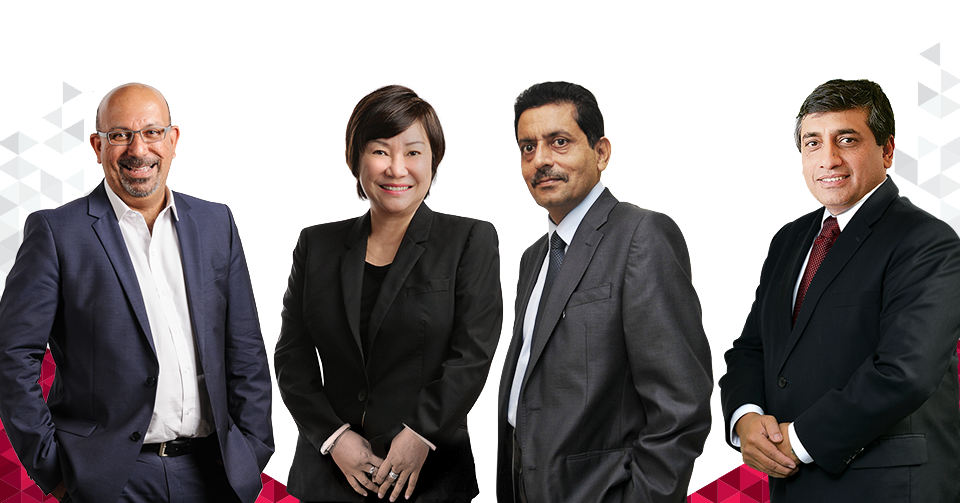
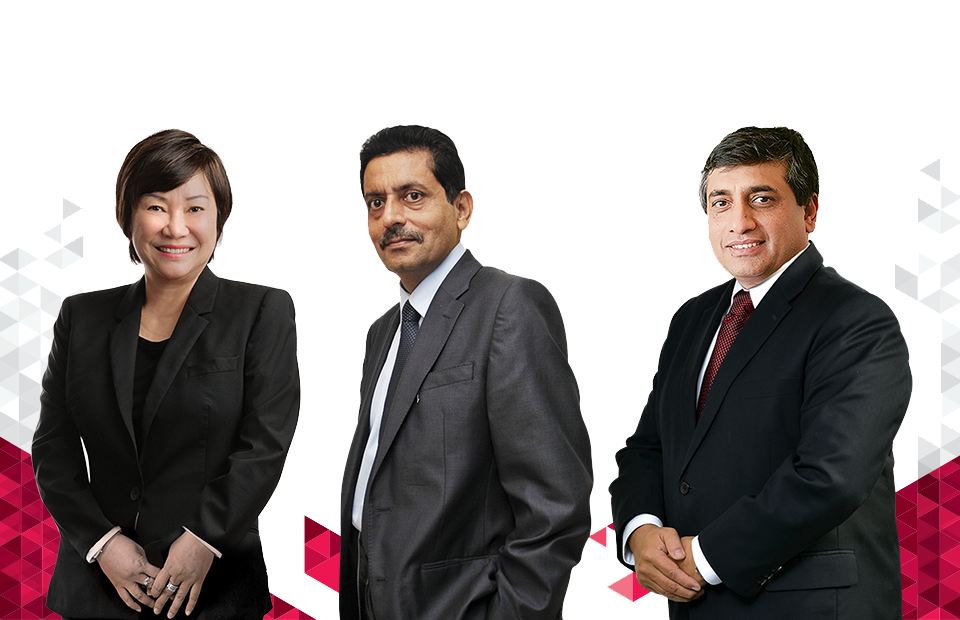
creating new management profile

diff --git a/ar/corporate profile/axiata'14_03_operating team.html b/ar/corporate profile/axiata'14_03_operating team.html
@@ -96,7 +96,7 @@
 				<img class="plusButton" id="plusButton1" src="../assets/img/chapter4/section2/plus.png" data-url="../board/21.html" />
 				<img class="plusButton" id="plusButton2" src="../assets/img/chapter4/section2/plus.png" data-url="../board/22.html" />
 				<img class="plusButton" id="plusButton3" src="../assets/img/chapter4/section2/plus.png" data-url="../board/23.html" />
-				<h1 class="header1">Profile of Operating Companies’</h1>
+				<h1 class="header1">Operating Companies’</h1>
 				<h1 class="header2">Management Team</h1>
 				<div class="name1">
 					<p class="text"> 
@@ -132,7 +132,6 @@
 			<div class="section7">
 				<img class="plusButton" id="plusButton1" src="../assets/img/chapter4/section2/plus.png" data-url="../board/24.html" />
 				<img class="plusButton" id="plusButton2" src="../assets/img/chapter4/section2/plus.png" data-url="../board/25.html" />
-				<img class="plusButton" id="plusButton3" src="../assets/img/chapter4/section2/plus.png" data-url="../board/27.html" />
 				<h1 class="header1">Profile of</h1>
 				<h1 class="header2">Management Team</h1>
 				<div class="name1">
@@ -151,7 +150,14 @@
 						<span class="purple">Smart Axiata Co. Ltd.</span>
 					</p>
 				</div>
-				<div class="name3">
+				
+			</div>
+			
+			<div class="section8_1">
+				<img class="plusButton" id="plusButton1" src="../assets/img/chapter4/section2/plus.png" data-url="../board/27.html" />
+				<img class="plusButton" id="plusButton2" src="../assets/img/chapter4/section2/plus.png" data-url="../board/28.html" />
+				
+				<div class="name1">
 					<p class="text"> 
 						<img class="arr" src="../assets/img/chapter4/board/arrow.png" />
 						<span class="purple">Mohd Khairil Abdullah</span> <br/>
@@ -159,16 +165,7 @@
 						<span class="purple">Axiata Digital Services Sdn Bhd</span>
 					</p>
 				</div>
-			</div>
-			
-			<div class="section8">
-				<img class="plusButton" id="plusButton1" src="../assets/img/chapter4/section2/plus.png" data-url="../board/28.html" />
-				<img class="plusButton" id="plusButton2" src="../assets/img/chapter4/section2/plus.png" data-url="../board/26.html" />
-				<img class="plusButton" id="plusButton3" src="../assets/img/chapter4/section2/plus.png" data-url="../board/29.html" />
-				<img class="plusButton" id="plusButton4" src="../assets/img/chapter4/section2/plus.png" data-url="../board/30.html" />
-				<h1 class="header1">Profile of</h1>
-				<h1 class="header2">Management Team</h1>
-				<div class="name1">
+				<div class="name2">
 					<p class="text"> 
 						<img class="arr" src="../assets/img/chapter4/board/arrow.png" />
 						<span class="purple">Suresh Sidhu</span> <br/>
@@ -176,7 +173,18 @@
 						<span class="purple">edotco Group Sdn Bhd</span>
 					</p>
 				</div>
-				<div class="name2">
+				
+			</div>
+
+
+			<div class="section8">
+				<img class="plusButton" id="plusButton1" src="../assets/img/chapter4/section2/plus.png" data-url="../board/26.html" />
+				<img class="plusButton" id="plusButton2" src="../assets/img/chapter4/section2/plus.png" data-url="../board/29.html" />
+				<img class="plusButton" id="plusButton3" src="../assets/img/chapter4/section2/plus.png" data-url="../board/30.html" />
+				<h1 class="header1">Profile of</h1>
+				<h1 class="header2">Management Team</h1>
+				
+				<div class="name1">
 					<p class="text"> 
 						<img class="arr" src="../assets/img/chapter4/board/arrow.png" />
 						<span class="purple">Karen Kooi</span> <br/>
@@ -184,7 +192,7 @@
 						<span class="purple">M1 Limited</span>
 					</p>
 				</div>
-				<div class="name3">
+				<div class="name2">
 					<p class="text"> 
 						<img class="arr" src="../assets/img/chapter4/board/arrow.png" />
 						<span class="purple">Himanshu Kapania</span> <br/>
@@ -192,7 +200,7 @@
 						<span class="purple">Idea Cellular Limited</span>
 					</p>
 				</div>
-				<div class="name4">
+				<div class="name3">
 					<p class="text"> 
 						<img class="arr" src="../assets/img/chapter4/board/arrow.png" />
 						<span class="purple">Adnan Asdar</span> <br/>
@@ -200,6 +208,7 @@
 						<span class="purple">Multinet Pakistan (Private) Limited</span>
 					</p>
 				</div>
+				
 			</div>
 			
 		</div>
@@ -328,6 +337,14 @@
 				.addTo(controller);
 		}
 		
+		new ScrollMagic.Scene({
+					triggerElement: '.section8_1',
+					triggerHook: 'onLeave',
+					offset: -90,
+					duration:770
+				})
+				.setPin('.section8_1',{pushFollowers: false})
+				.addTo(controller);
 		//slide(1);
 		//alert(currentDivId);
 		

diff --git a/ar/assets/css/chapter4.css b/ar/assets/css/chapter4.css
@@ -674,12 +674,12 @@
 
 .section7 #plusButton1
 {
-	margin: 440px 0 0 230px;
+	margin: 440px 0 0 370px;
 }
 
 .section7 #plusButton2
 {
-	margin: 440px 0 0 560px;
+	margin: 440px 0 0 730px;
 }
 
 .section7 #plusButton3
@@ -713,7 +713,7 @@
 	font-size:13.5px;
 	font-family:axiataBook;
 	width:270px;
-	margin:-90px 0 0 90px;
+	margin:-30px 0 0 210px;
 	color:#4d4d4f;
 }
 .section7 .name2
@@ -721,7 +721,7 @@
 	font-size:13.5px;
 	font-family:axiataBook;
 	width:245px;
-	margin:-92px 0 0 410px;
+	margin:-92px 0 0 580px;
 	color:#4d4d4f;
 }
 
@@ -769,17 +769,17 @@
 
 .section8 #plusButton1
 {
-	margin: 450px 0 0 200px;
+	margin: 400px 0 0 270px;
 }
 
 .section8 #plusButton2
 {
-	margin: 450px 0 0 460px;
+	margin: 400px 0 0 520px;
 }
 
 .section8 #plusButton3
 {
-	margin: 450px 0 0 650px;
+	margin: 400px 0 0 850px;
 }
 
 .section8 #plusButton4
@@ -812,16 +812,16 @@
 {
 	font-size:13.5px;
 	font-family:axiataBook;
-	width:150px;
-	margin:-30px 0 0 80px;
+	width:200px;
+	margin:-30px 0 0 120px;
 	color:#4d4d4f;
 }
 .section8 .name2
 {
 	font-size:13.5px;
 	font-family:axiataBook;
-	width:150px;
-	margin:-112px 0 0 300px;
+	width:200px;
+	margin:-72px 0 0 370px;
 	color:#4d4d4f;
 }
 
@@ -829,8 +829,8 @@
 {
 	font-size:13.5px;
 	font-family:axiataBook;
-	width:210px;
-	margin:-92px 0 0 490px;
+	width:260px;
+	margin:-72px 0 0 660px;
 	color:#4d4d4f;
 }
 
@@ -849,6 +849,113 @@
 }
 
 .section8 .arr
+{
+	margin-left:-16px;
+	
+}
+
+
+
+.section8_1
+{
+	width:960px;
+	min-height:730px;
+	margin:0 auto;
+	overflow:hidden;
+	background:#ffffff url("../img/chapter4/section8/background2.png") no-repeat bottom left;
+		margin-bottom: 90px;
+
+}
+
+.section8_1 .plusButton
+{
+	cursor:pointer;
+	display:block;
+	position:absolute;
+}
+
+.section8_1 #plusButton1
+{
+	margin: 450px 0 0 400px;
+}
+
+.section8_1 #plusButton2
+{
+	margin: 450px 0 0 770px;
+}
+
+.section8_1 #plusButton3
+{
+	margin: 450px 0 0 650px;
+}
+
+.section8_1 #plusButton4
+{
+	margin: 450px 0 0 900px;
+}
+
+
+.section8_1 .header1
+{
+	font-size:25px;
+	font-family:axiataBold;
+	color:#8a8c8e;
+	margin-left:50px;
+	padding-top:40px;
+	z-index:100;
+	opacity:0;
+}
+.section8_1 .header2
+{
+	font-size:32px;
+	font-family:axiataBold;
+	color:#c40d42;
+	margin-left:50px;
+	margin-top:-20px;
+	z-index:101;
+	opacity:0;
+}
+.section8_1 .name1
+{
+	font-size:13.5px;
+	font-family:axiataBook;
+	width:300px;
+	margin:100px 0 0 220px;
+	color:#4d4d4f;
+}
+.section8_1 .name2
+{
+	font-size:13.5px;
+	font-family:axiataBook;
+	width:300px;
+	margin:-82px 0 0 600px;
+	color:#4d4d4f;
+}
+
+.section8_1 .name3
+{
+	font-size:13.5px;
+	font-family:axiataBook;
+	width:210px;
+	margin:-92px 0 0 490px;
+	color:#4d4d4f;
+}
+
+.section8_1 .name4
+{
+	font-size:13.5px;
+	font-family:axiataBook;
+	width:180px;
+	margin:-72px 0 0 740px;
+	color:#4d4d4f;
+}
+.section8_1 .purple
+{
+	color:#c40c42;
+	font-weight:bold;
+}
+
+.section8_1 .arr
 {
 	margin-left:-16px;
 	
